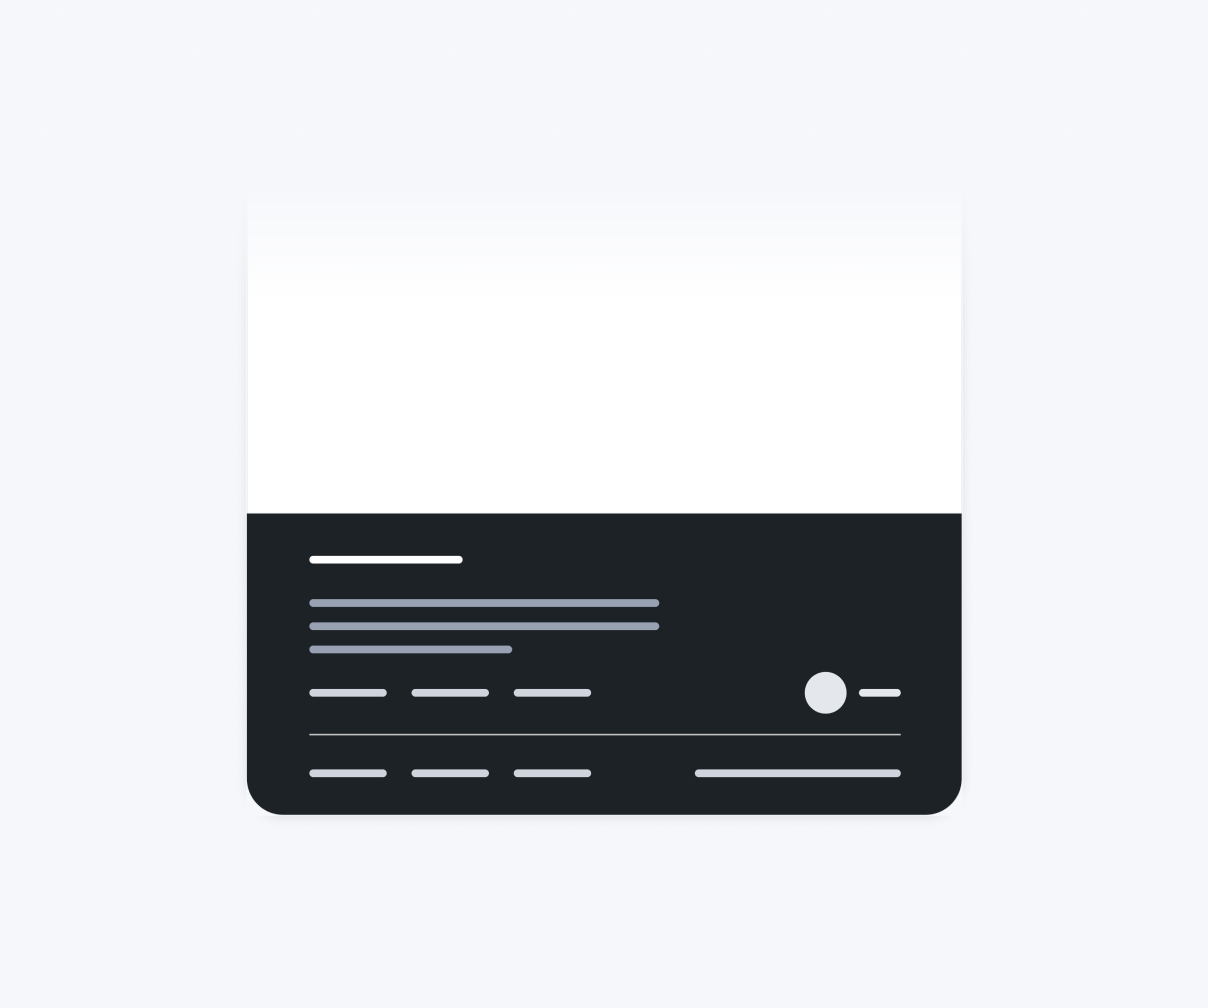
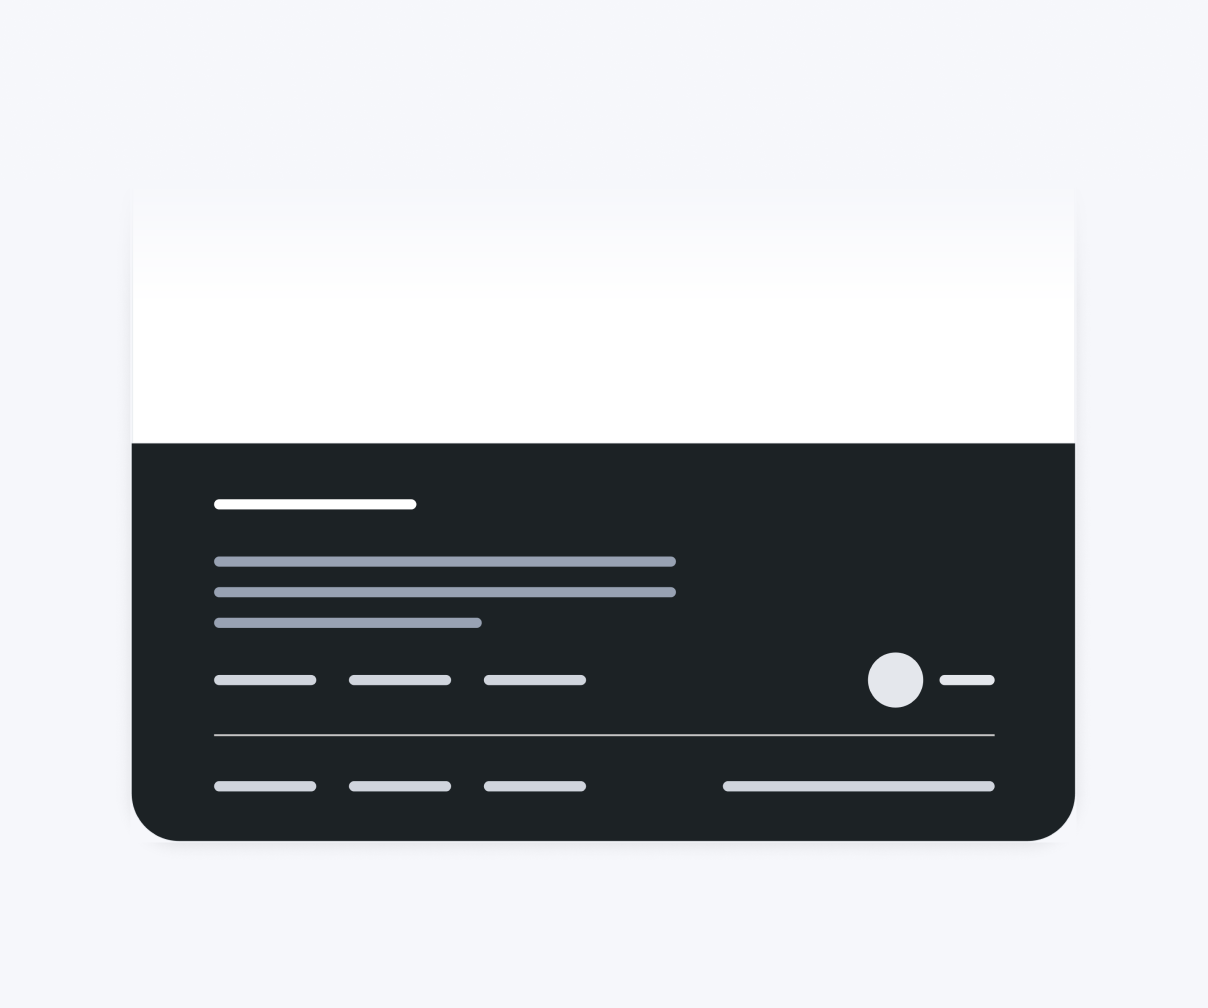
chore(portal): update footer overview image and add new img (#469)
* chore(portal): update footer overview image and add new img

* chore(layout): remove beta installation step

* refactor(home): make npm version dynamic in home page

* chore(*): move readme to sgds folder

* chore(*): delete github directory

* docs(*): update root readme

* Update README.md

* chore(*): update readme

Changed region(s): [[0.0919, 0.4306, 0.8882, 0.8611]]

diff --git a/portal/content/home.html b/portal/content/home.html
@@ -32,7 +32,7 @@ permalink: /
             <div class="card">
                 <div class="card-body">
                     <div class="card-eyebrow">What's new</div>
-                    <div class="h4 card-title fw-bold">SGDS v2.1.0</div>
+                    <div class="h4 card-title fw-bold">SGDS v{{currentVersion}}</div>
                     <p class="card-text">Updates to components, patches and fixes can be found here in our release notes
                     </p>
                     <a href="{{site.github-release-note}}">See release note</a>

diff --git a/portal/content/layouts/overview.html b/portal/content/layouts/overview.html
@@ -7,10 +7,4 @@ overview: true
 pageCategory: layouts
 ---
 
-{% capture get-started %}
-<div>
-    To get started, run: {% highlight bash %}npm i @govtechsg/sgds@beta{% endhighlight %}
-</div>
-{% endcapture %}
-
 {% include page-overview.html description=get-started %}

diff --git a/README.md b/README.md
@@ -1,0 +1,20 @@
+# Singapore Government Design System 
+
+The [Singapore Government Design System](https://www.designsystem.tech.gov.sg) was developed to empower teams in creating fast, accessible and mobile-friendly digital services.
+
+This repository contains the styling libraries of SGDS and portal documentation 
+
+## Table of Content
+
+* [@govtechsg/sgds](/lib/sgds/README.md)
+* [@govtechsg/sgds-x-family](/lib/sgds-x-family/README.md) (WORK-IN-PROGRESS) 
+* [SGDS Portal](/portal/README.md)
+
+## Contribute
+
+To Contribute and  for repository setup, please read [CONTRIBUTING.md](/CONTRIBUTING.md)
+
+## Others
+
+* [SGDS React Component Library](https://github.com/GovTechSG/sgds-govtech-react)
+* [SGDS Web Component Library](https://github.com/GovTechSG/sgds-web-component)

diff --git a/lib/sgds/README.md b/lib/sgds/README.md
@@ -4,7 +4,8 @@
 
 The [Singapore Government Design System](https://www.designsystem.tech.gov.sg) was developed to empower teams in creating fast, accessible and mobile-friendly digital services.
 
-Visit our [SGDS React storybook](https://react.designsystem.tech.gov.sg)
+Visit our [React storybook](https://react.designsystem.tech.gov.sg)
+Visit our [Web Component storybook](https://webcomponent.designsystem.tech.gov.sg)
 
 ***
 
@@ -66,4 +67,4 @@ import * as bootstrap from 'bootstrap';
 
 ## Patch Notes
 
-See [Changelog](./lib/sgds/CHANGELOG.md)
+See [Changelog](./CHANGELOG.md)
